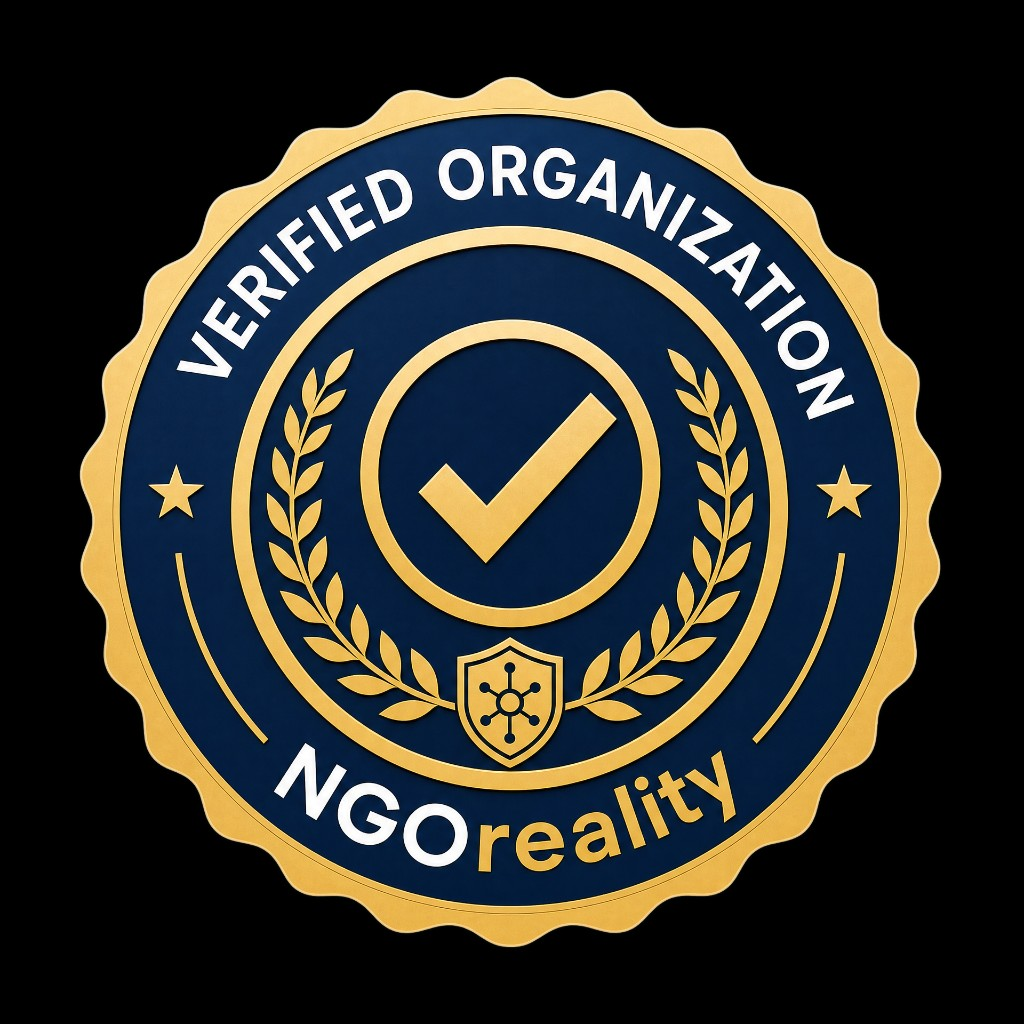
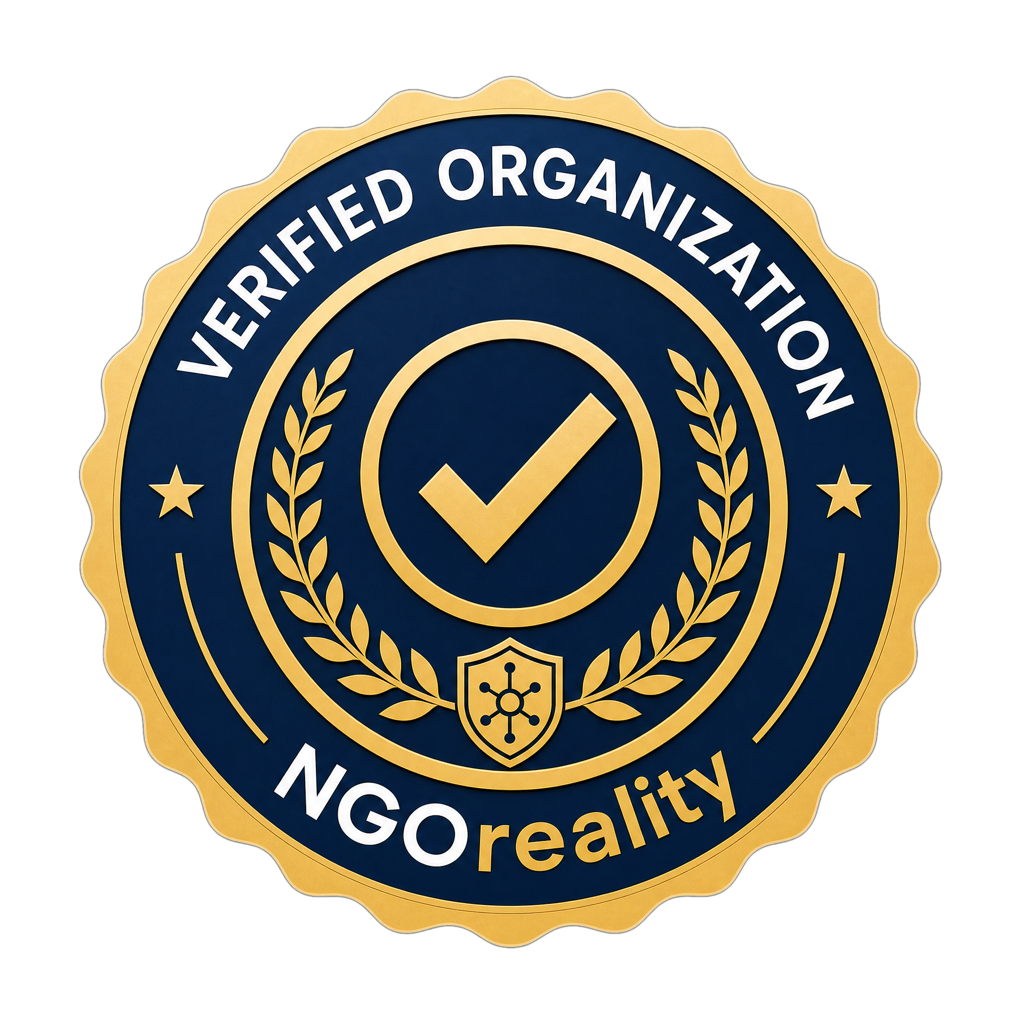
Outreach drafts get a {page} bracket; badge PNG is transparent again
Staff can now write {page} (alias {profileUrl}) in an outreach subject or
body and each organisation receives a link to its own public directory
page (/public/org/<slug>), alongside the existing {name}. The browser path
(notifications.ts) and the server-side bulk RPC (migration 064, already
applied to the remote) substitute identically, so a bracket never leaks
into a sent email. Board and worklist now fetch the slug with the orgs they
hand to the composer.

public/reality-badge.png had become a JPEG wearing a .png name — no alpha
channel, hence the black square behind the badge everywhere. Rebuilt from
the original 1920px RGBA master as a real transparent PNG at 1024px
(952 KB, down from 4 MB).

diff --git a/src/lib/notifications.ts b/src/lib/notifications.ts
@@ -1,4 +1,5 @@
 import { supabase } from './supabase';
+import { SITE_URL } from '../config/site';
 import type { OutreachEmailTemplate } from '../types';
 
 export type NotificationTemplate =
@@ -13,6 +14,13 @@ function portalSignupUrl(organizationId?: string): string {
   const root = base || 'https://www.ngoreality.com';
   if (organizationId) return `${root}/ngo/signup?org=${encodeURIComponent(organizationId)}`;
   return `${root}/ngo/signup`;
+}
+
+/** Absolute URL of an organisation's public directory page (`/public/org/<slug>`). */
+export function publicProfileUrl(slug?: string | null): string | null {
+  const clean = slug?.trim();
+  if (!clean) return null;
+  return `${SITE_URL}/public/org/${encodeURIComponent(clean)}`;
 }
 
 function buildMessage(
@@ -146,9 +154,23 @@ function buildMessage(
   }
 }
 
-/** Replace placeholders when staff edits the draft before send. */
-export function personalizeOutreachDraft(text: string, organizationName: string): string {
-  return text.replace(/\{name\}/gi, organizationName).replace(/\{organizationName\}/gi, organizationName);
+/**
+ * Replace placeholders when staff edits the draft before send.
+ *  - `{name}` / `{organizationName}` → the organisation's name
+ *  - `{page}` / `{profileUrl}`       → link to its public directory page (/public/org/<slug>)
+ * The same brackets are honoured server-side by `outreach_enqueue_emails` (migration 064).
+ */
+export function personalizeOutreachDraft(
+  text: string,
+  organizationName: string,
+  profileUrl?: string | null,
+): string {
+  const page = profileUrl ?? '';
+  return text
+    .replace(/\{name\}/gi, organizationName)
+    .replace(/\{organizationName\}/gi, organizationName)
+    .replace(/\{page\}/gi, page)
+    .replace(/\{profileUrl\}/gi, page);
 }
 
 /** Queue an email for the worker / manual send from CRM. */
@@ -157,6 +179,8 @@ export async function queueNotification(input: {
   template: NotificationTemplate;
   recipientEmail: string;
   organizationName: string;
+  /** Public directory slug — lets `{page}` in a staff draft resolve to the org's profile link. */
+  organizationSlug?: string | null;
   incidentId?: string;
   extra?: Record<string, string>;
   subjectOverride?: string;
@@ -169,11 +193,12 @@ export async function queueNotification(input: {
     ...input.extra,
     organizationId: input.organizationId,
   });
+  const profileUrl = publicProfileUrl(input.organizationSlug);
   const subject = input.subjectOverride
-    ? personalizeOutreachDraft(input.subjectOverride, input.organizationName)
+    ? personalizeOutreachDraft(input.subjectOverride, input.organizationName, profileUrl)
     : built.subject;
   const body = input.bodyOverride
-    ? personalizeOutreachDraft(input.bodyOverride, input.organizationName)
+    ? personalizeOutreachDraft(input.bodyOverride, input.organizationName, profileUrl)
     : built.body;
 
   const { error } = await supabase.from('notification_events').insert({

diff --git a/src/lib/crmOutreach.ts b/src/lib/crmOutreach.ts
@@ -116,7 +116,7 @@ export type BulkEmailResult = {
 };
 
 export async function queueOutreachBulkEmail(
-  orgs: Pick<Organization, 'id' | 'name' | 'email'>[],
+  orgs: (Pick<Organization, 'id' | 'name' | 'email'> & Partial<Pick<Organization, 'slug'>>)[],
   template: OutreachEmailTemplate,
   options?: {
     incidentIdByOrg?: Record<string, string>;
@@ -145,6 +145,7 @@ export async function queueOutreachBulkEmail(
       template,
       recipientEmail: org.email,
       organizationName: org.name,
+      organizationSlug: org.slug,
       incidentId: options?.incidentIdByOrg?.[org.id],
       extra: options?.errorDetailByOrg?.[org.id]
         ? { errorDetail: options.errorDetailByOrg[org.id] }
@@ -161,7 +162,7 @@ export async function queueOutreachBulkEmail(
 
 /** Queue outreach emails for selected orgs — does not deliver until Email notifications / worker processes the queue. */
 export async function sendOutreachForColumn(
-  orgs: Pick<Organization, 'id' | 'name' | 'email' | 'outreach_status'>[],
+  orgs: (Pick<Organization, 'id' | 'name' | 'email' | 'outreach_status'> & Partial<Pick<Organization, 'slug'>>)[],
   column: OutreachStatus,
   options?: {
     incidentIdByOrg?: Record<string, string>;
@@ -179,7 +180,7 @@ export async function sendOutreachForColumn(
 
 /** Queue AND immediately send outreach emails via Monitor API (requires VITE_MONITOR_API_URL + VITE_MONITOR_API_KEY). */
 export async function sendOutreachNow(
-  orgs: Pick<Organization, 'id' | 'name' | 'email' | 'outreach_status'>[],
+  orgs: (Pick<Organization, 'id' | 'name' | 'email' | 'outreach_status'> & Partial<Pick<Organization, 'slug'>>)[],
   column: OutreachStatus,
   options?: {
     incidentIdByOrg?: Record<string, string>;

diff --git a/src/pages/crm/OutreachWorklist.tsx b/src/pages/crm/OutreachWorklist.tsx
@@ -92,7 +92,7 @@ export default function OutreachWorklist() {
   const [busy, setBusy] = useState(false);
   const [notice, setNotice] = useState<string | null>(null);
   const [sendEmailOpen, setSendEmailOpen] = useState(false);
-  const [sendEmailOrganizations, setSendEmailOrganizations] = useState<Pick<Organization, 'id' | 'name' | 'email'>[]>([]);
+  const [sendEmailOrganizations, setSendEmailOrganizations] = useState<Pick<Organization, 'id' | 'name' | 'email' | 'slug'>[]>([]);
   const confirm = useConfirm();
 
   const { counts } = useOutreachSegmentCounts(refreshKey);
@@ -228,14 +228,14 @@ export default function OutreachWorklist() {
     try {
       const { data, error: fetchError } = await supabase
         .from('organizations')
-        .select('id, name, email')
+        .select('id, name, email, slug')
         .in('id', ids);
       if (fetchError) throw fetchError;
       if (!data?.length) {
         setNotice('Could not load selected organisations.');
         return;
       }
-      setSendEmailOrganizations(data as Pick<Organization, 'id' | 'name' | 'email'>[]);
+      setSendEmailOrganizations(data as Pick<Organization, 'id' | 'name' | 'email' | 'slug'>[]);
       setSendEmailOpen(true);
     } catch (e) {
       setNotice(e instanceof Error ? e.message : 'Could not open email composer.');

diff --git a/src/pages/crm/OutreachBoard.tsx b/src/pages/crm/OutreachBoard.tsx
@@ -59,7 +59,7 @@ export default function OutreachBoard() {
   const [categoryFilter, setCategoryFilter] = useState('');
   const [sortBy, setSortBy] = useState('');
   const [sendEmailOpen, setSendEmailOpen] = useState(false);
-  const [sendEmailOrganizations, setSendEmailOrganizations] = useState<{ id: string; name: string; email: string }[]>([]);
+  const [sendEmailOrganizations, setSendEmailOrganizations] = useState<{ id: string; name: string; email: string; slug: string }[]>([]);
   const [busy, setBusy] = useState(false);
   const [globalRefreshTick, setGlobalRefreshTick] = useState(0);
 
@@ -98,10 +98,10 @@ export default function OutreachBoard() {
       const { supabase } = await import('../../lib/supabase');
       const { data } = await supabase
         .from('organizations')
-        .select('id, name, email')
+        .select('id, name, email, slug')
         .in('id', Array.from(selectedIds));
       if (data) {
-        setSendEmailOrganizations(data as { id: string; name: string; email: string }[]);
+        setSendEmailOrganizations(data as { id: string; name: string; email: string; slug: string }[]);
         setSendEmailOpen(true);
       }
     } catch (err) {

diff --git a/src/components/crm/SendEmailModal.tsx b/src/components/crm/SendEmailModal.tsx
@@ -272,7 +272,7 @@ export default function SendEmailModal({
                   <span className="label-brutal flex flex-wrap items-center gap-2">
                     Body
                     <span className="normal-case tracking-normal font-sans font-medium text-ink-400">
-                      Inserts {'{name}'} for each organisation
+                      {'{name}'} → organisation name · {'{page}'} → link to its directory page
                     </span>
                   </span>
                   <textarea
